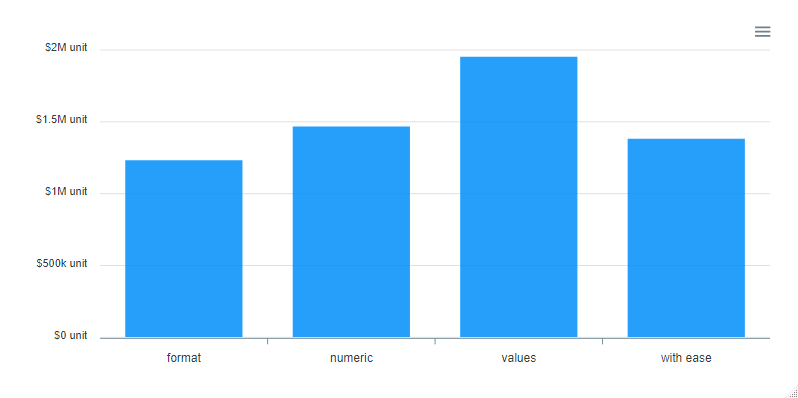
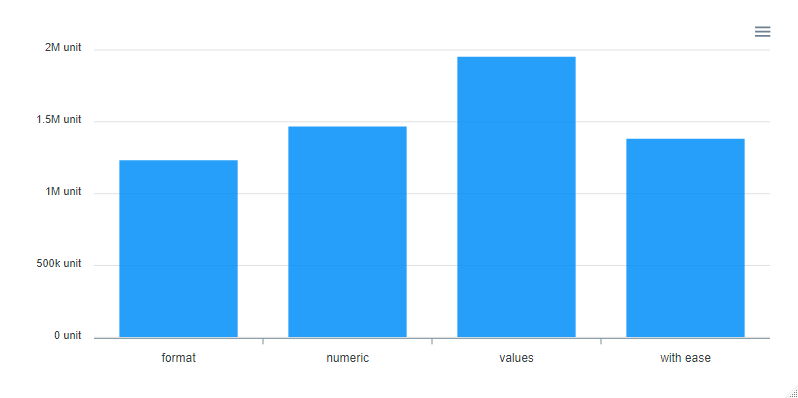
uniformize examples

diff --git a/README.md b/README.md
@@ -86,7 +86,7 @@ library(apexcharter)
 apex(dat, aes(x, y), "column") %>%
   use_d3_format() %>%
   ax_yaxis(labels = list(
-    formatter =  d3_format_js("$.3~s", suffix = " unit")
+    formatter =  d3_format_js(",.3~s", suffix = " unit")
   ))
 ```
 
@@ -101,7 +101,7 @@ billboarder(data = dat) %>%
   use_d3_format() %>%
   bb_y_axis(
     tick = list(
-      format = d3_format_js("$.3~s", suffix = " unit")
+      format = d3_format_js(",.3~s", suffix = " unit")
     )
   )
 ```
